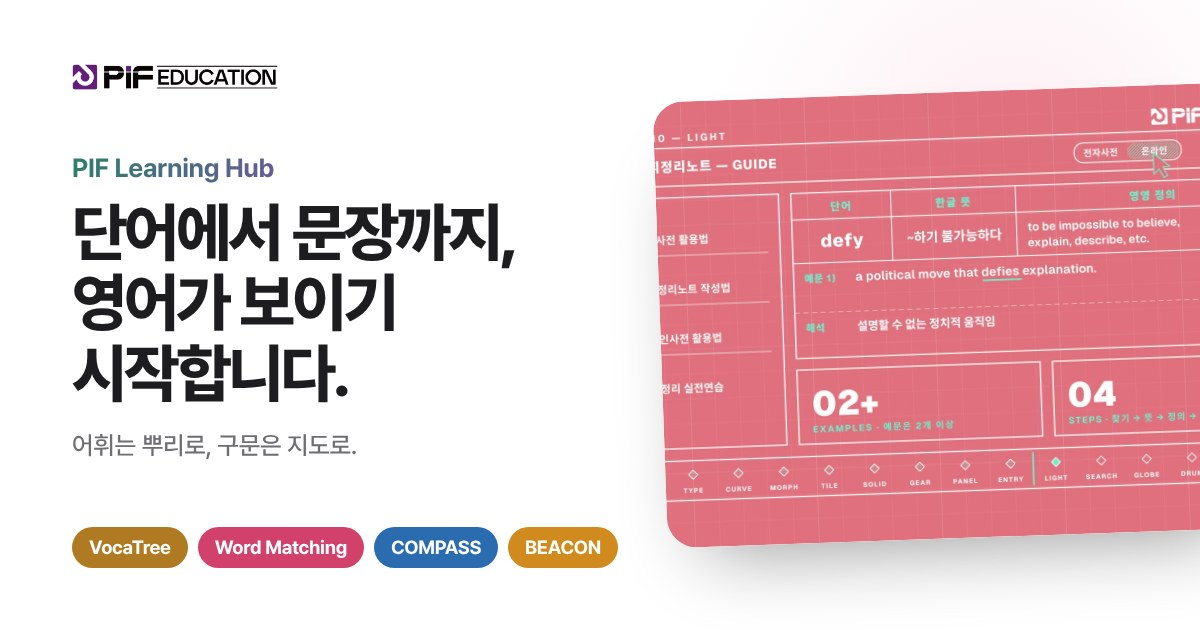
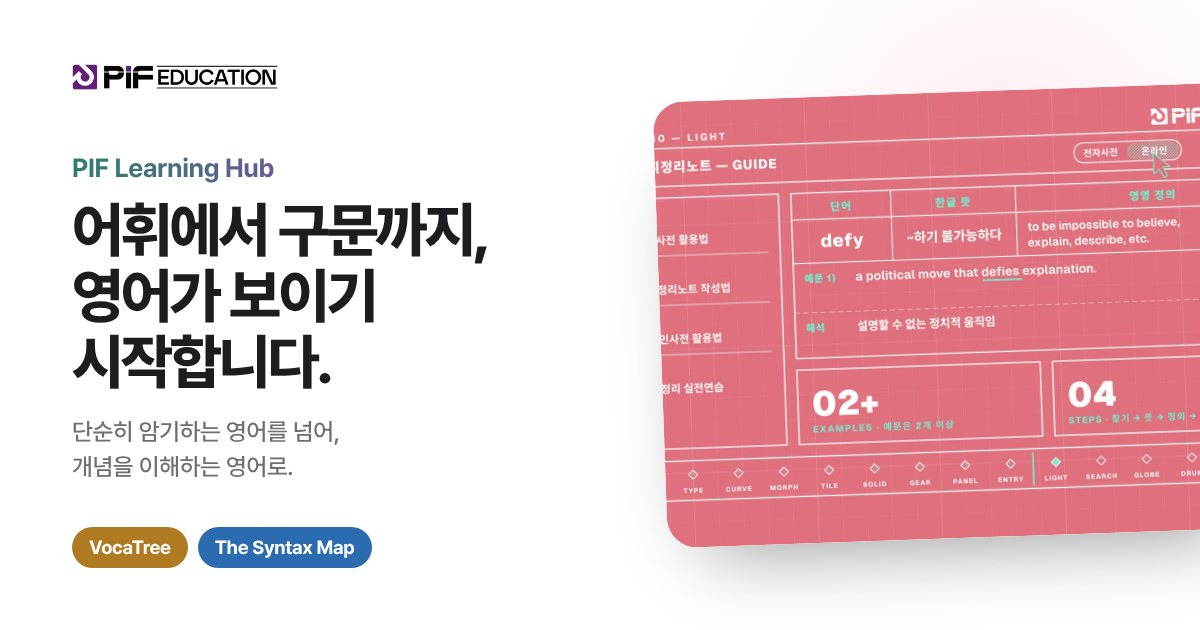
랜딩 첫 화면 문구 변경: 어휘에서 구문까지 / VocaTree · The Syntax Map (공유 이미지·제목도 반영)
Claude-Session: https://claude.ai/code/session_01NqW5Y2hxreezv8fGEZmPZV

Changed region(s): [[0.0617, 0.3016, 0.4317, 0.754], [0.1542, 0.8143, 0.5242, 0.9048]]

diff --git a/index.html b/index.html
@@ -5,16 +5,16 @@
 <meta name="viewport" content="width=device-width,initial-scale=1,viewport-fit=cover">
 <meta property="og:type" content="website">
 <meta property="og:site_name" content="PIF Learning Hub">
-<meta property="og:title" content="PIF Learning Hub — 단어에서 문장까지">
-<meta property="og:description" content="어휘는 뿌리로, 구문은 지도로. 보카트리·Word Matching·구문의 지도(COMPASS·BEACON)를 하나의 계정으로.">
+<meta property="og:title" content="PIF Learning Hub — 어휘에서 구문까지, 영어가 보이기 시작합니다">
+<meta property="og:description" content="단순히 암기하는 영어를 넘어, 개념을 이해하는 영어로. 단어의 의미를 발견하는 VocaTree, 문장의 구조를 이해하는 The Syntax Map.">
 <meta property="og:url" content="https://pif-hub.vercel.app/">
 <meta property="og:image" content="https://pif-hub.vercel.app/img/og.jpg">
 <meta property="og:image:width" content="1200">
 <meta property="og:image:height" content="630">
 <meta property="og:locale" content="ko_KR">
 <meta name="twitter:card" content="summary_large_image">
-<title>PIF Learning Hub — 어휘와 구문, 하나의 허브에서</title>
-<meta name="description" content="PIF영어의 어휘(VocaTree)·구문(구문의 지도 COMPASS·BEACON) 학습 앱을 하나의 계정으로.">
+<title>PIF Learning Hub — 어휘에서 구문까지, 영어가 보이기 시작합니다</title>
+<meta name="description" content="단순히 암기하는 영어를 넘어, 개념을 이해하는 영어로. 단어의 의미를 발견하는 VocaTree, 문장의 구조를 이해하는 The Syntax Map.">
 <link rel="icon" href="/essential/icons/favicon-32.png">
 <style>
 @font-face{font-family:'Pretendard';src:url('fonts/PretendardVariable.woff2') format('woff2-variations');font-weight:45 920;font-display:swap}
@@ -49,6 +49,10 @@ a{color:inherit;text-decoration:none}
 .eyebrow b{background:linear-gradient(90deg,#2f7d6d,#7a4fa3 45%,#d2416b 75%,#e8a33a);-webkit-background-clip:text;background-clip:text;color:transparent}
 h1{font-size:clamp(42px,6.4vw,84px);line-height:1.04;font-weight:750;letter-spacing:-.045em;margin:14px 0 22px}
 .lead{font-size:clamp(17px,1.7vw,22px);line-height:1.5;color:var(--ink2);font-weight:450;max-width:640px;margin:0 auto}
+.lead2{font-size:clamp(16px,1.5vw,19px);line-height:1.6;color:var(--ink2);margin:14px auto 0;max-width:640px;font-weight:450}
+.lead2 b{font-weight:700}
+.lead2 .vt{background:linear-gradient(90deg,#2f7d6d,#b07a22);-webkit-background-clip:text;background-clip:text;color:transparent}
+.lead2 .sm{background:linear-gradient(90deg,#2b6cb0,#d08a1e);-webkit-background-clip:text;background-clip:text;color:transparent}
 .btns{display:flex;gap:14px;justify-content:center;align-items:center;margin-top:32px;flex-wrap:wrap}
 .btn{display:inline-flex;align-items:center;gap:6px;background:var(--blue);color:#fff;font-size:16px;font-weight:600;padding:13px 24px;border-radius:99px}
 .btn.ghost{background:transparent;color:var(--link);padding:13px 6px}
@@ -305,8 +309,9 @@ footer a{color:#424245}
 <header class="hero">
   <div class="wrap">
     <div class="eyebrow"><b>PIF Learning Hub</b></div>
-    <h1>단어에서 문장까지,<br>영어가 보이기 시작합니다.</h1>
-    <p class="lead">어휘는 뿌리로, 구문은 지도로. PIF영어의 여섯 가지 학습 앱을 하나의 계정으로 만나세요.</p>
+    <h1>어휘에서 구문까지,<br>영어가 보이기 시작합니다.</h1>
+    <p class="lead">단순히 암기하는 영어를 넘어,<br class="mb"> 개념을 이해하는 영어로.</p>
+    <p class="lead2">단어의 의미를 발견하는 <b class="vt">VocaTree</b>,<br>문장의 구조를 이해하는 <b class="sm">The Syntax Map</b>.</p>
     <div class="btns"><a class="btn" href="/learn/">학습 시작하기</a><a class="btn ghost" href="#vocatree">코스 둘러보기</a></div>
   </div>
   <div class="wrap"><figure class="film">
